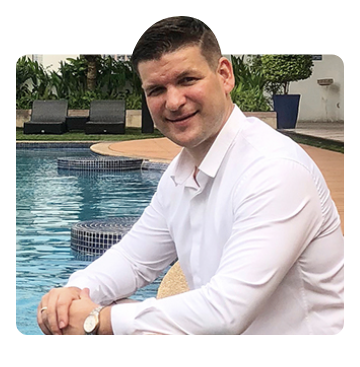
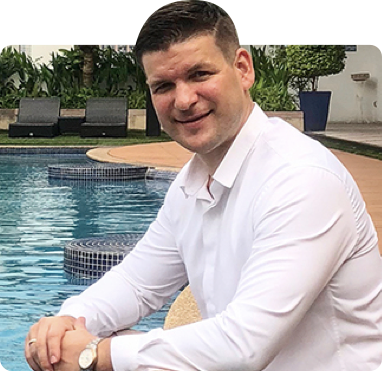
style fixes

diff --git a/css/styles.css b/css/styles.css
@@ -295,6 +295,10 @@ h1, h2, h3, p:not(:last-of-type), .p-medium:not(:last-of-type), .p-small:not(:la
     margin-bottom: 13px;
 }
 
+.advice-block-item p {
+    letter-spacing: 0.4px;
+}
+
 .advice-block-item img {
     margin-bottom: 14px;
 }
@@ -307,7 +311,8 @@ h1, h2, h3, p:not(:last-of-type), .p-medium:not(:last-of-type), .p-small:not(:la
 }
 
 .speaker-block img {
-    margin: 0 auto 24px;
+    margin: 20px auto 24px;
+    box-shadow: 0 22px 12px -9px rgba(45, 57, 58, .16);
 }
 
 .speaker-block-list {
@@ -499,7 +504,7 @@ h1, h2, h3, p:not(:last-of-type), .p-medium:not(:last-of-type), .p-small:not(:la
     padding-left: 16px;
     padding-right: 16px;
     background-color: transparent;
-    color: #fff;
+    color: #f5c889;
 }
 
 .registration-block-form input::placeholder {
